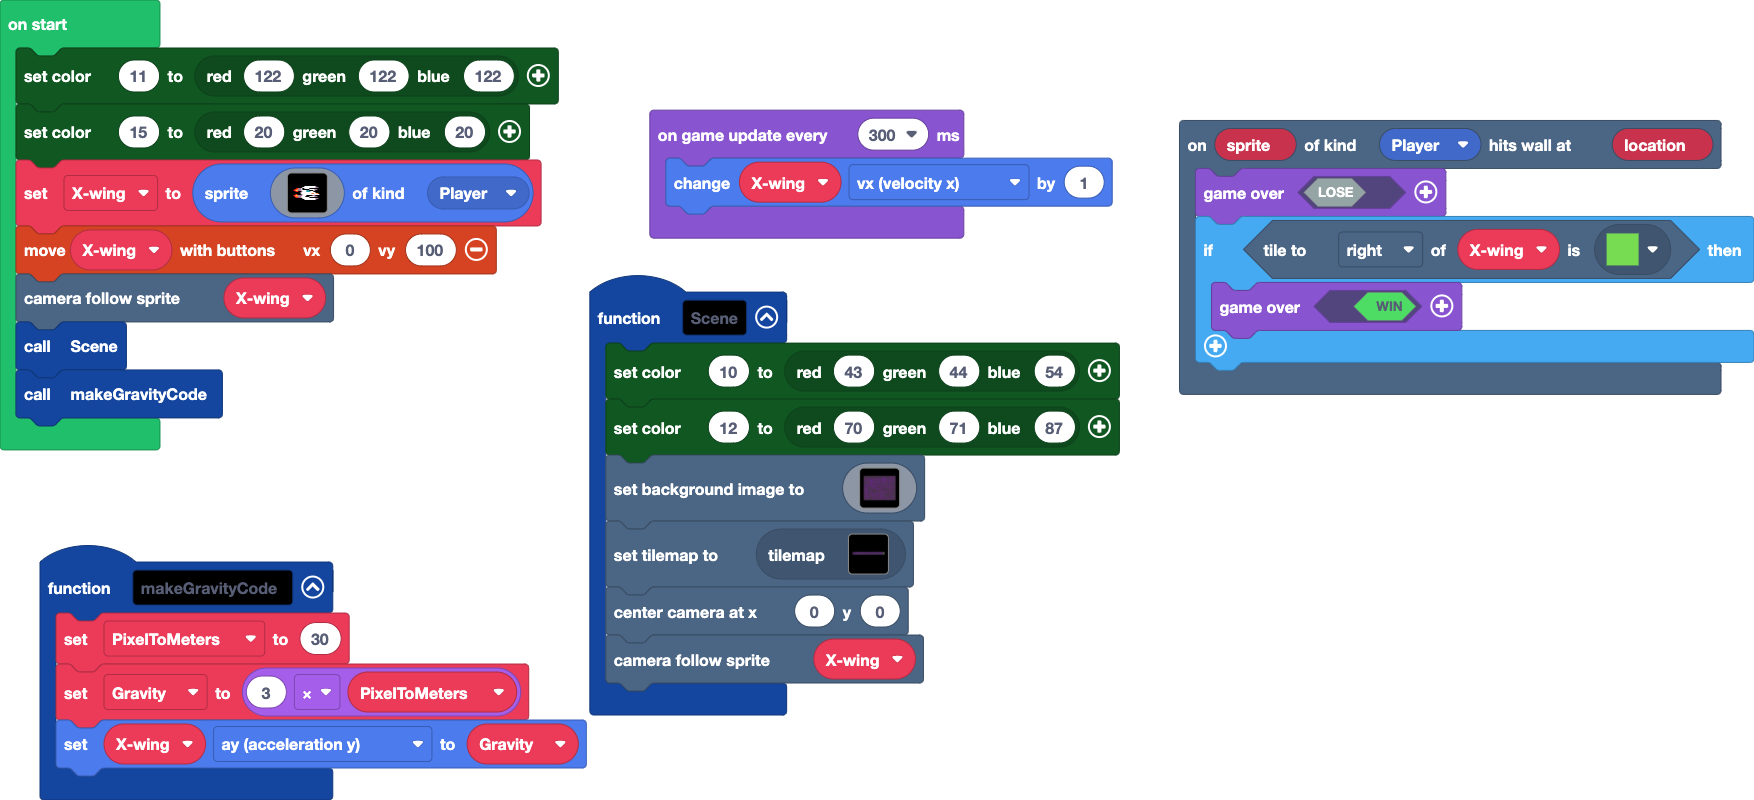
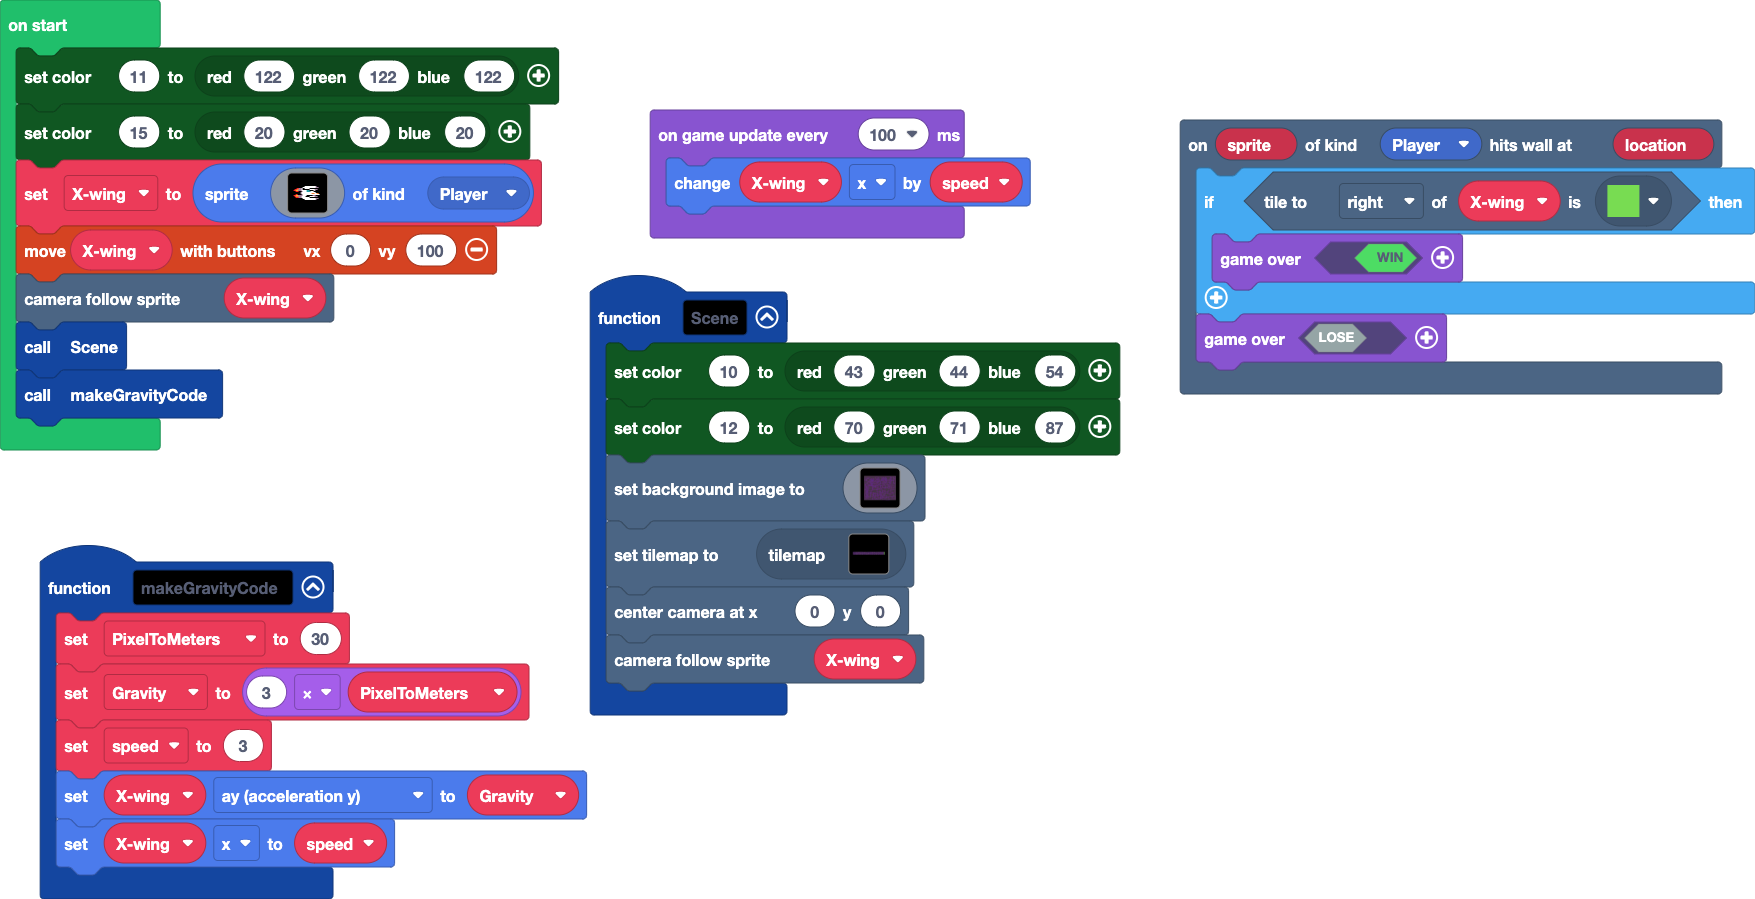
Update main.blocks, main.ts

diff --git a/main.ts b/main.ts
@@ -1,13 +1,15 @@
 scene.onHitWall(SpriteKind.Player, function (sprite, location) {
-    game.over(false)
     if (Xwing.tileKindAt(TileDirection.Right, assets.tile`myTile1`)) {
         game.over(true)
     }
+    game.over(false)
 })
 function makeGravityCode () {
     PixelToMeters = 30
     Gravity = 3 * PixelToMeters
+    speed = 3
     Xwing.ay = Gravity
+    Xwing.x = speed
 }
 function Scene () {
     color.setColor(10, color.rgb(43, 44, 54))
@@ -138,6 +140,7 @@ function Scene () {
     scene.centerCameraAt(0, 0)
     scene.cameraFollowSprite(Xwing)
 }
+let speed = 0
 let Gravity = 0
 let PixelToMeters = 0
 let Xwing: Sprite = null
@@ -165,6 +168,6 @@ controller.moveSprite(Xwing, 0, 100)
 scene.cameraFollowSprite(Xwing)
 Scene()
 makeGravityCode()
-game.onUpdateInterval(300, function () {
-    Xwing.vx += 1
+game.onUpdateInterval(100, function () {
+    Xwing.x += speed
 })
